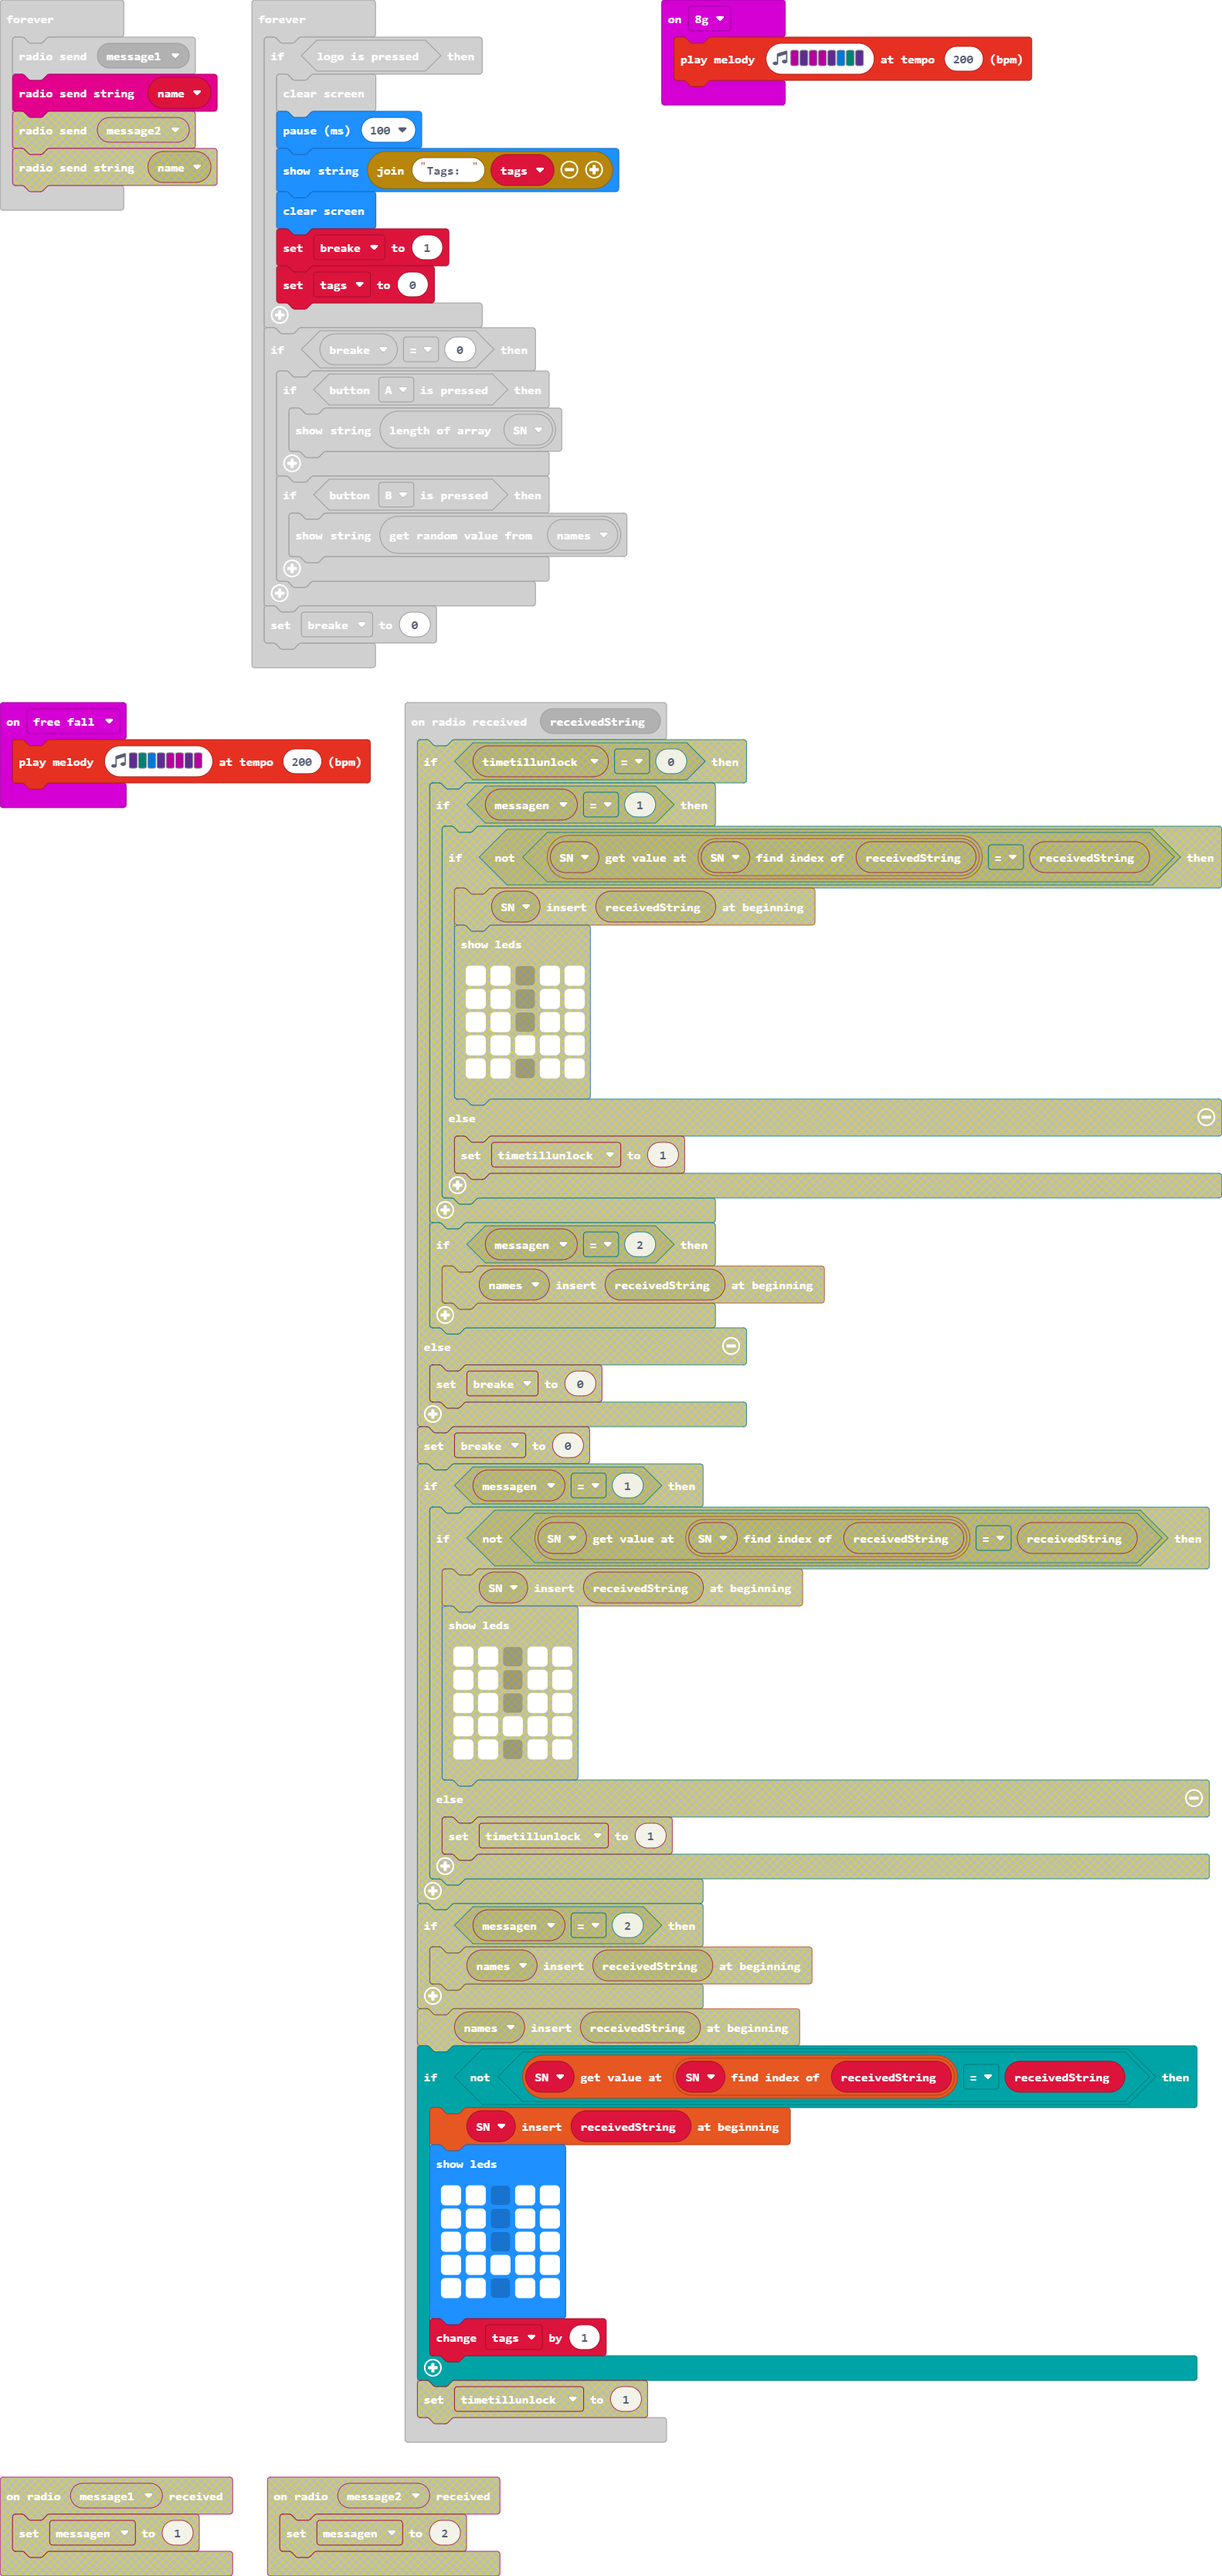
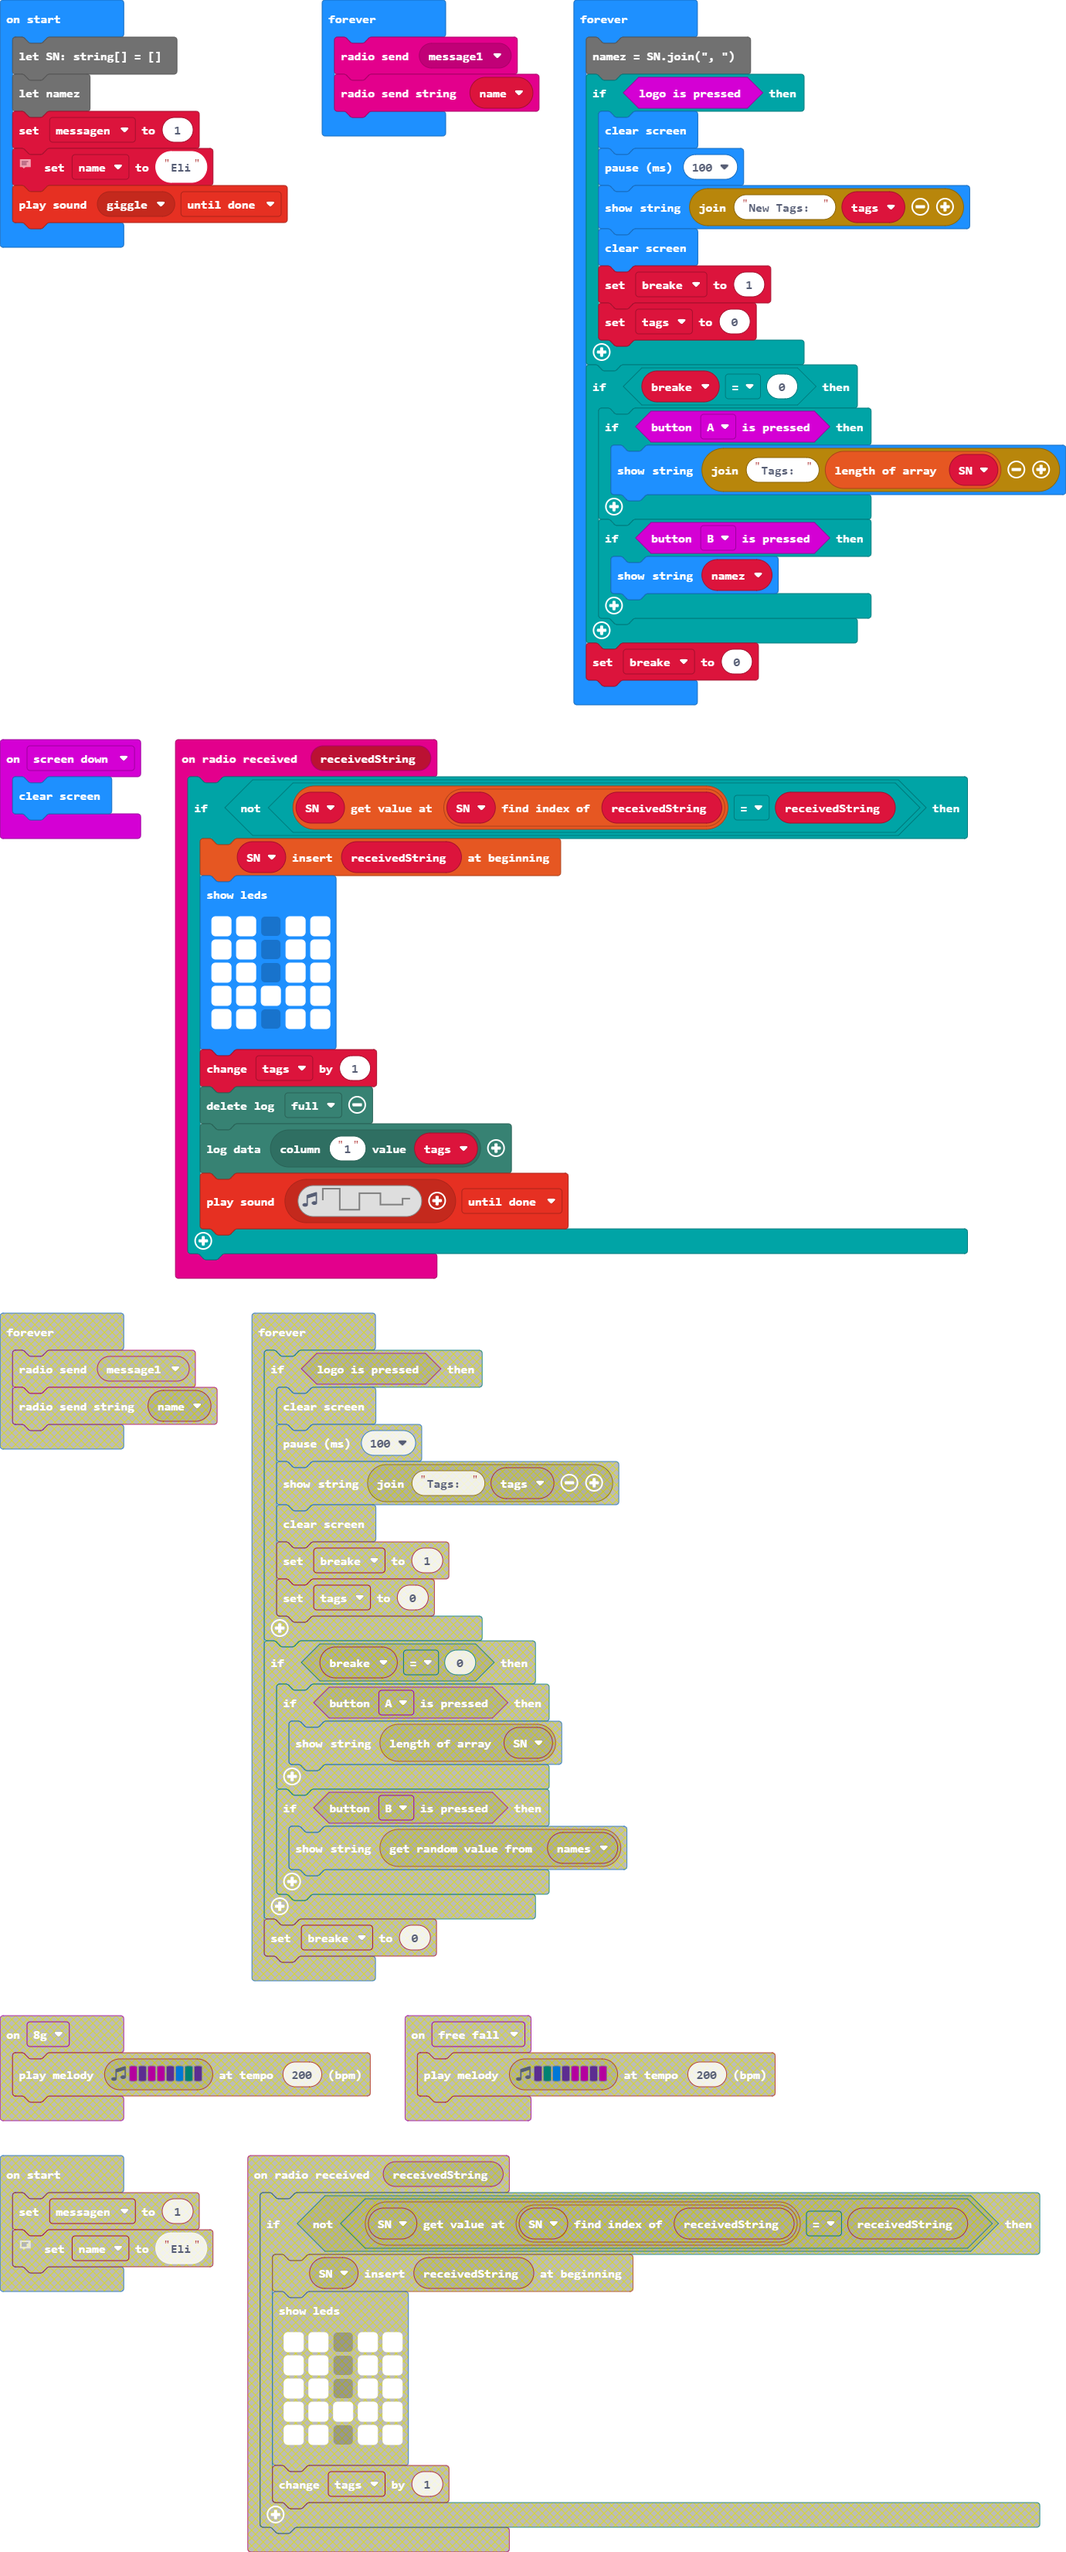
Update pxt.json, main.blocks, main.ts

diff --git a/main.ts b/main.ts
@@ -1,12 +1,9 @@
 enum RadioMessage {
-    message1 = 49434,
-    message2 = 1435
+    message2 = 1435,
+    message1 = 49434
 }
-input.onGesture(Gesture.EightG, function () {
-    music.playMelody("C D C C D E F D ", 200)
-})
-input.onGesture(Gesture.FreeFall, function () {
-    music.playMelody("D F E D C C D C ", 200)
+input.onGesture(Gesture.ScreenDown, function () {
+    basic.clearScreen()
 })
 radio.onReceivedString(function (receivedString) {
     if (!(SN[SN.indexOf(receivedString)] == receivedString)) {
@@ -19,34 +16,39 @@ radio.onReceivedString(function (receivedString) {
             # # . # #
             `)
         tags += 1
+        datalogger.deleteLog(datalogger.DeleteType.Full)
+        datalogger.log(datalogger.createCV("1", tags))
+        music.playSoundEffect(music.createSoundEffect(WaveShape.Square, 1600, 1, 255, 0, 300, SoundExpressionEffect.None, InterpolationCurve.Logarithmic), SoundExpressionPlayMode.UntilDone)
     }
 })
 let breake = 0
 let tags = 0
 let SN: string[] = []
+let namez
 let messagen = 1
 // make this your name
 let name = "Eli"
+music.playSoundEffect(music.builtinSoundEffect(soundExpression.giggle), SoundExpressionPlayMode.UntilDone)
 basic.forever(function () {
     radio.sendMessage(RadioMessage.message1)
     radio.sendString(name)
 })
 basic.forever(function () {
-    if (input.logoIsPressed()) {
+    namez = SN.join(", ")
+if (input.logoIsPressed()) {
         basic.clearScreen()
         basic.pause(100)
-        basic.showString("Tags: " + tags)
+        basic.showString("New Tags: " + tags)
         basic.clearScreen()
         breake = 1
         tags = 0
     }
     if (breake == 0) {
         if (input.buttonIsPressed(Button.A)) {
-            basic.showString("" + (SN.length))
+            basic.showString("Tags: " + SN.length)
         }
         if (input.buttonIsPressed(Button.B)) {
-            let names: number[] = []
-            basic.showString("" + (names._pickRandom()))
+            basic.showString("" + (namez))
         }
     }
     breake = 0
